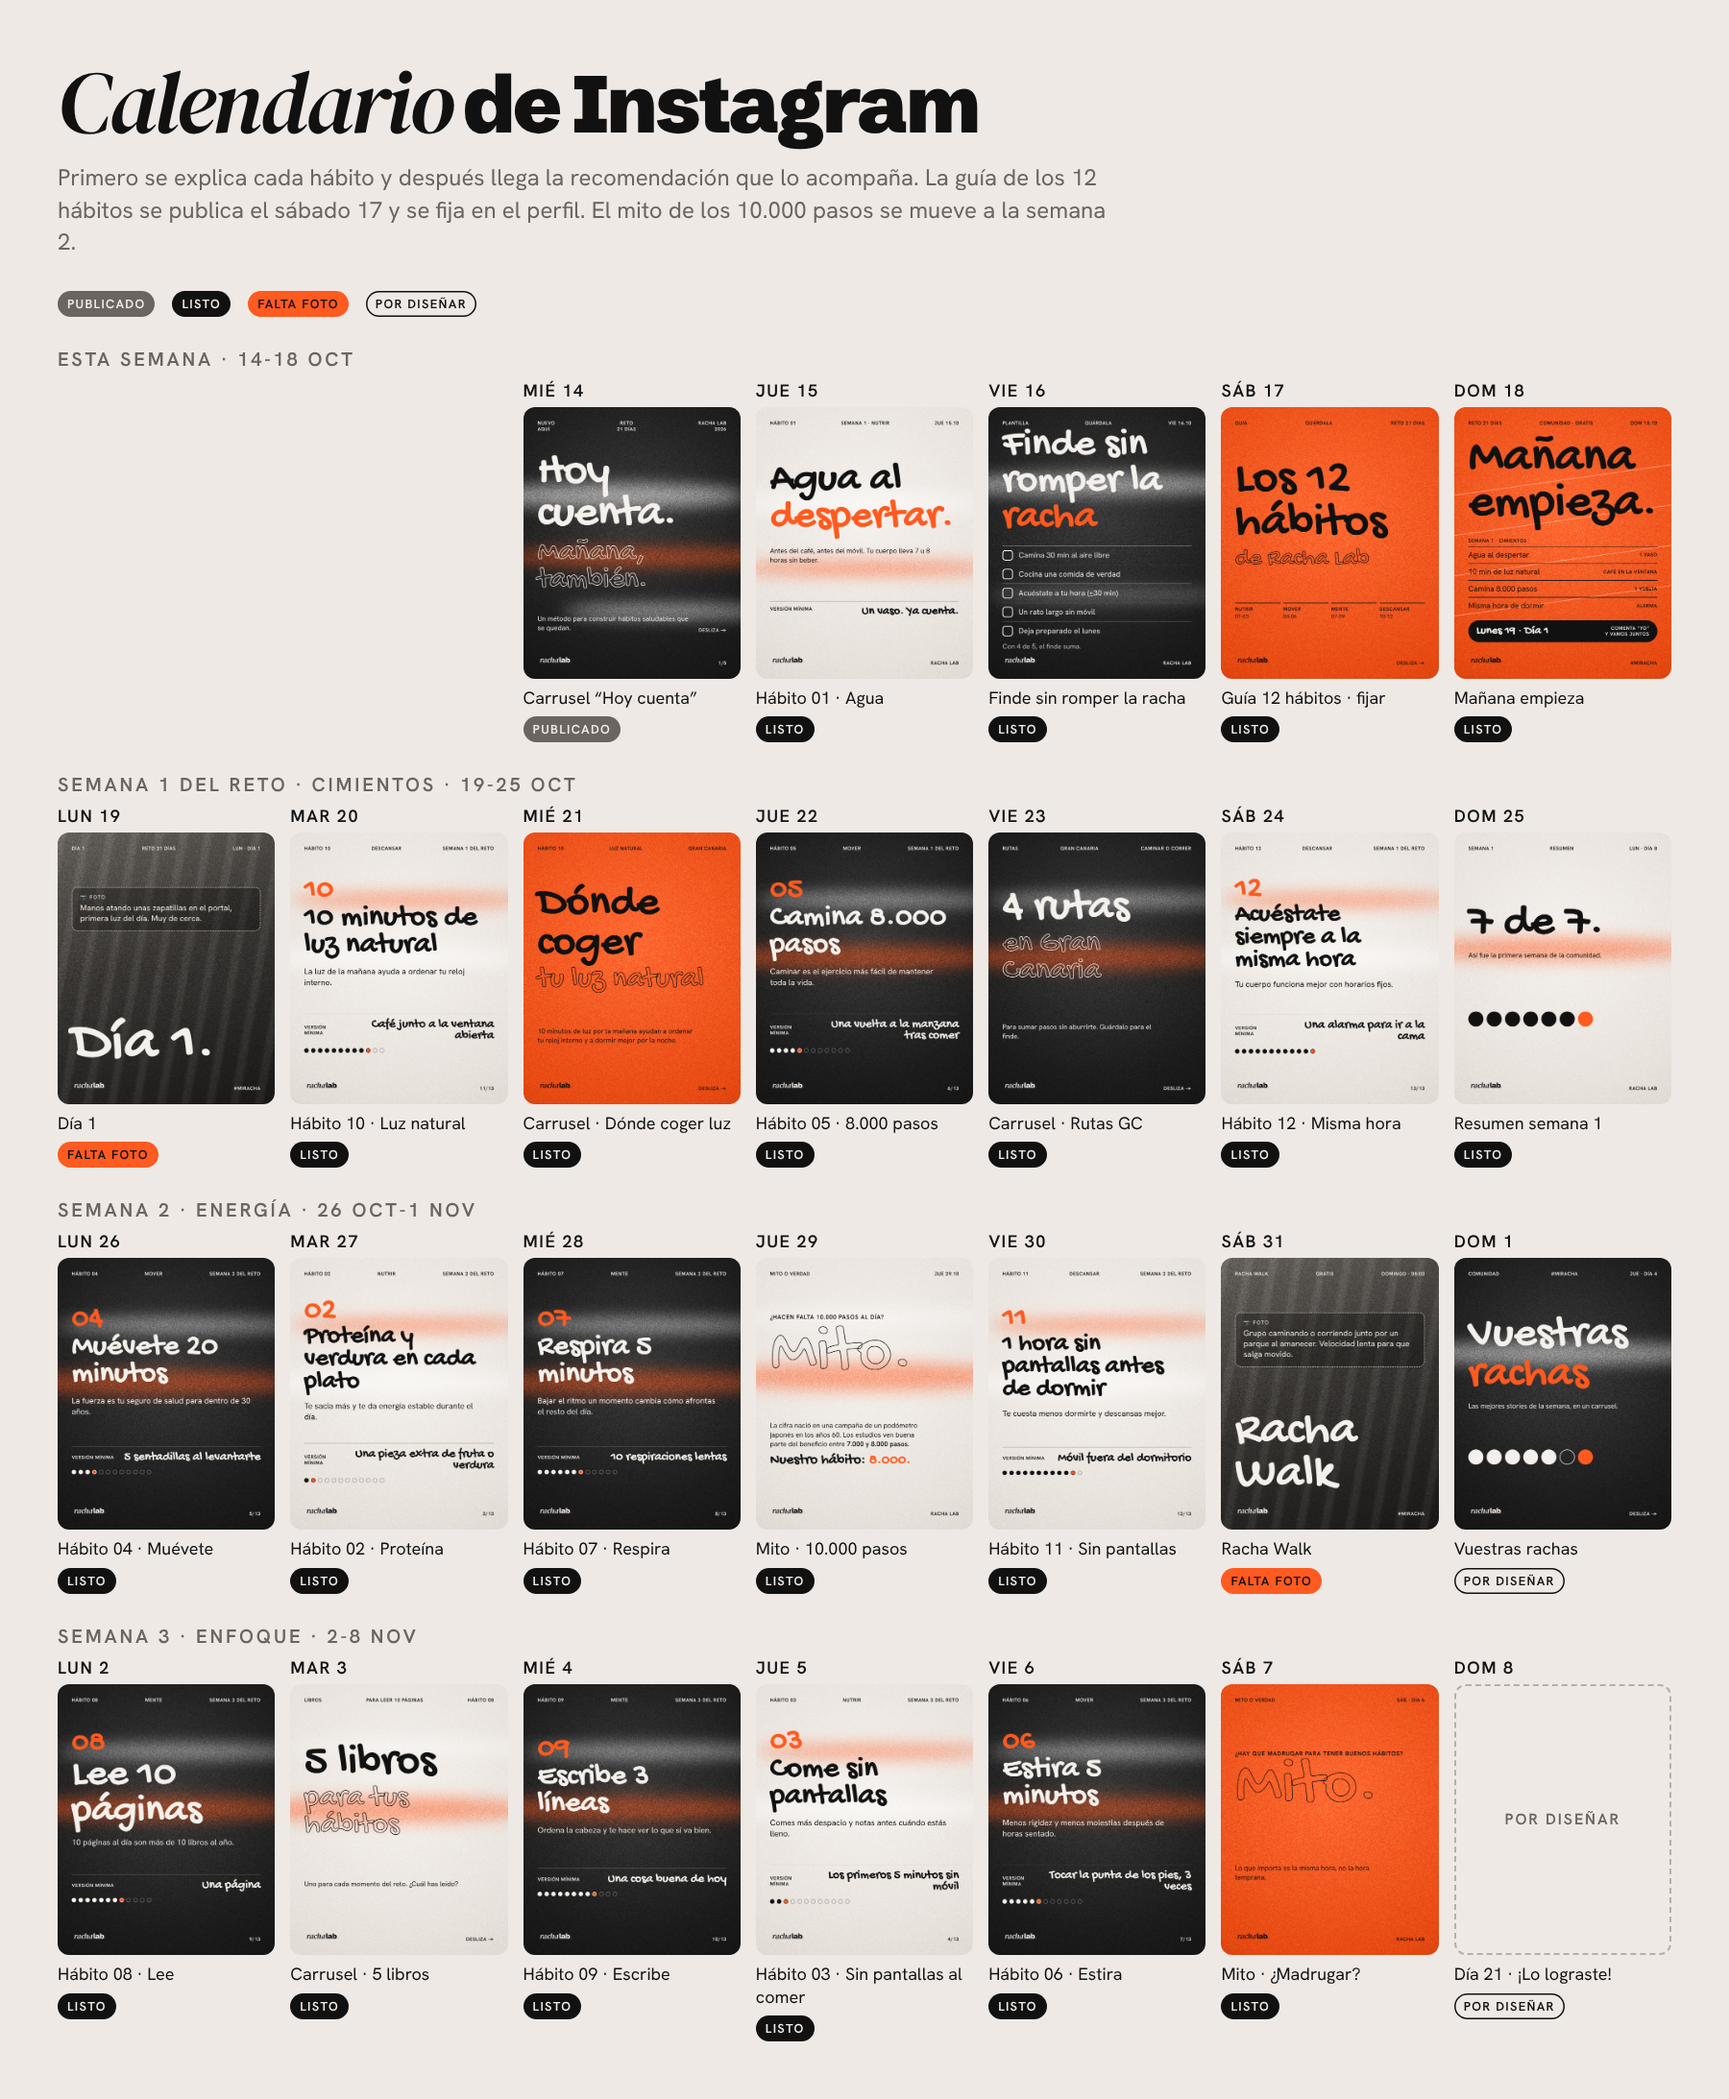
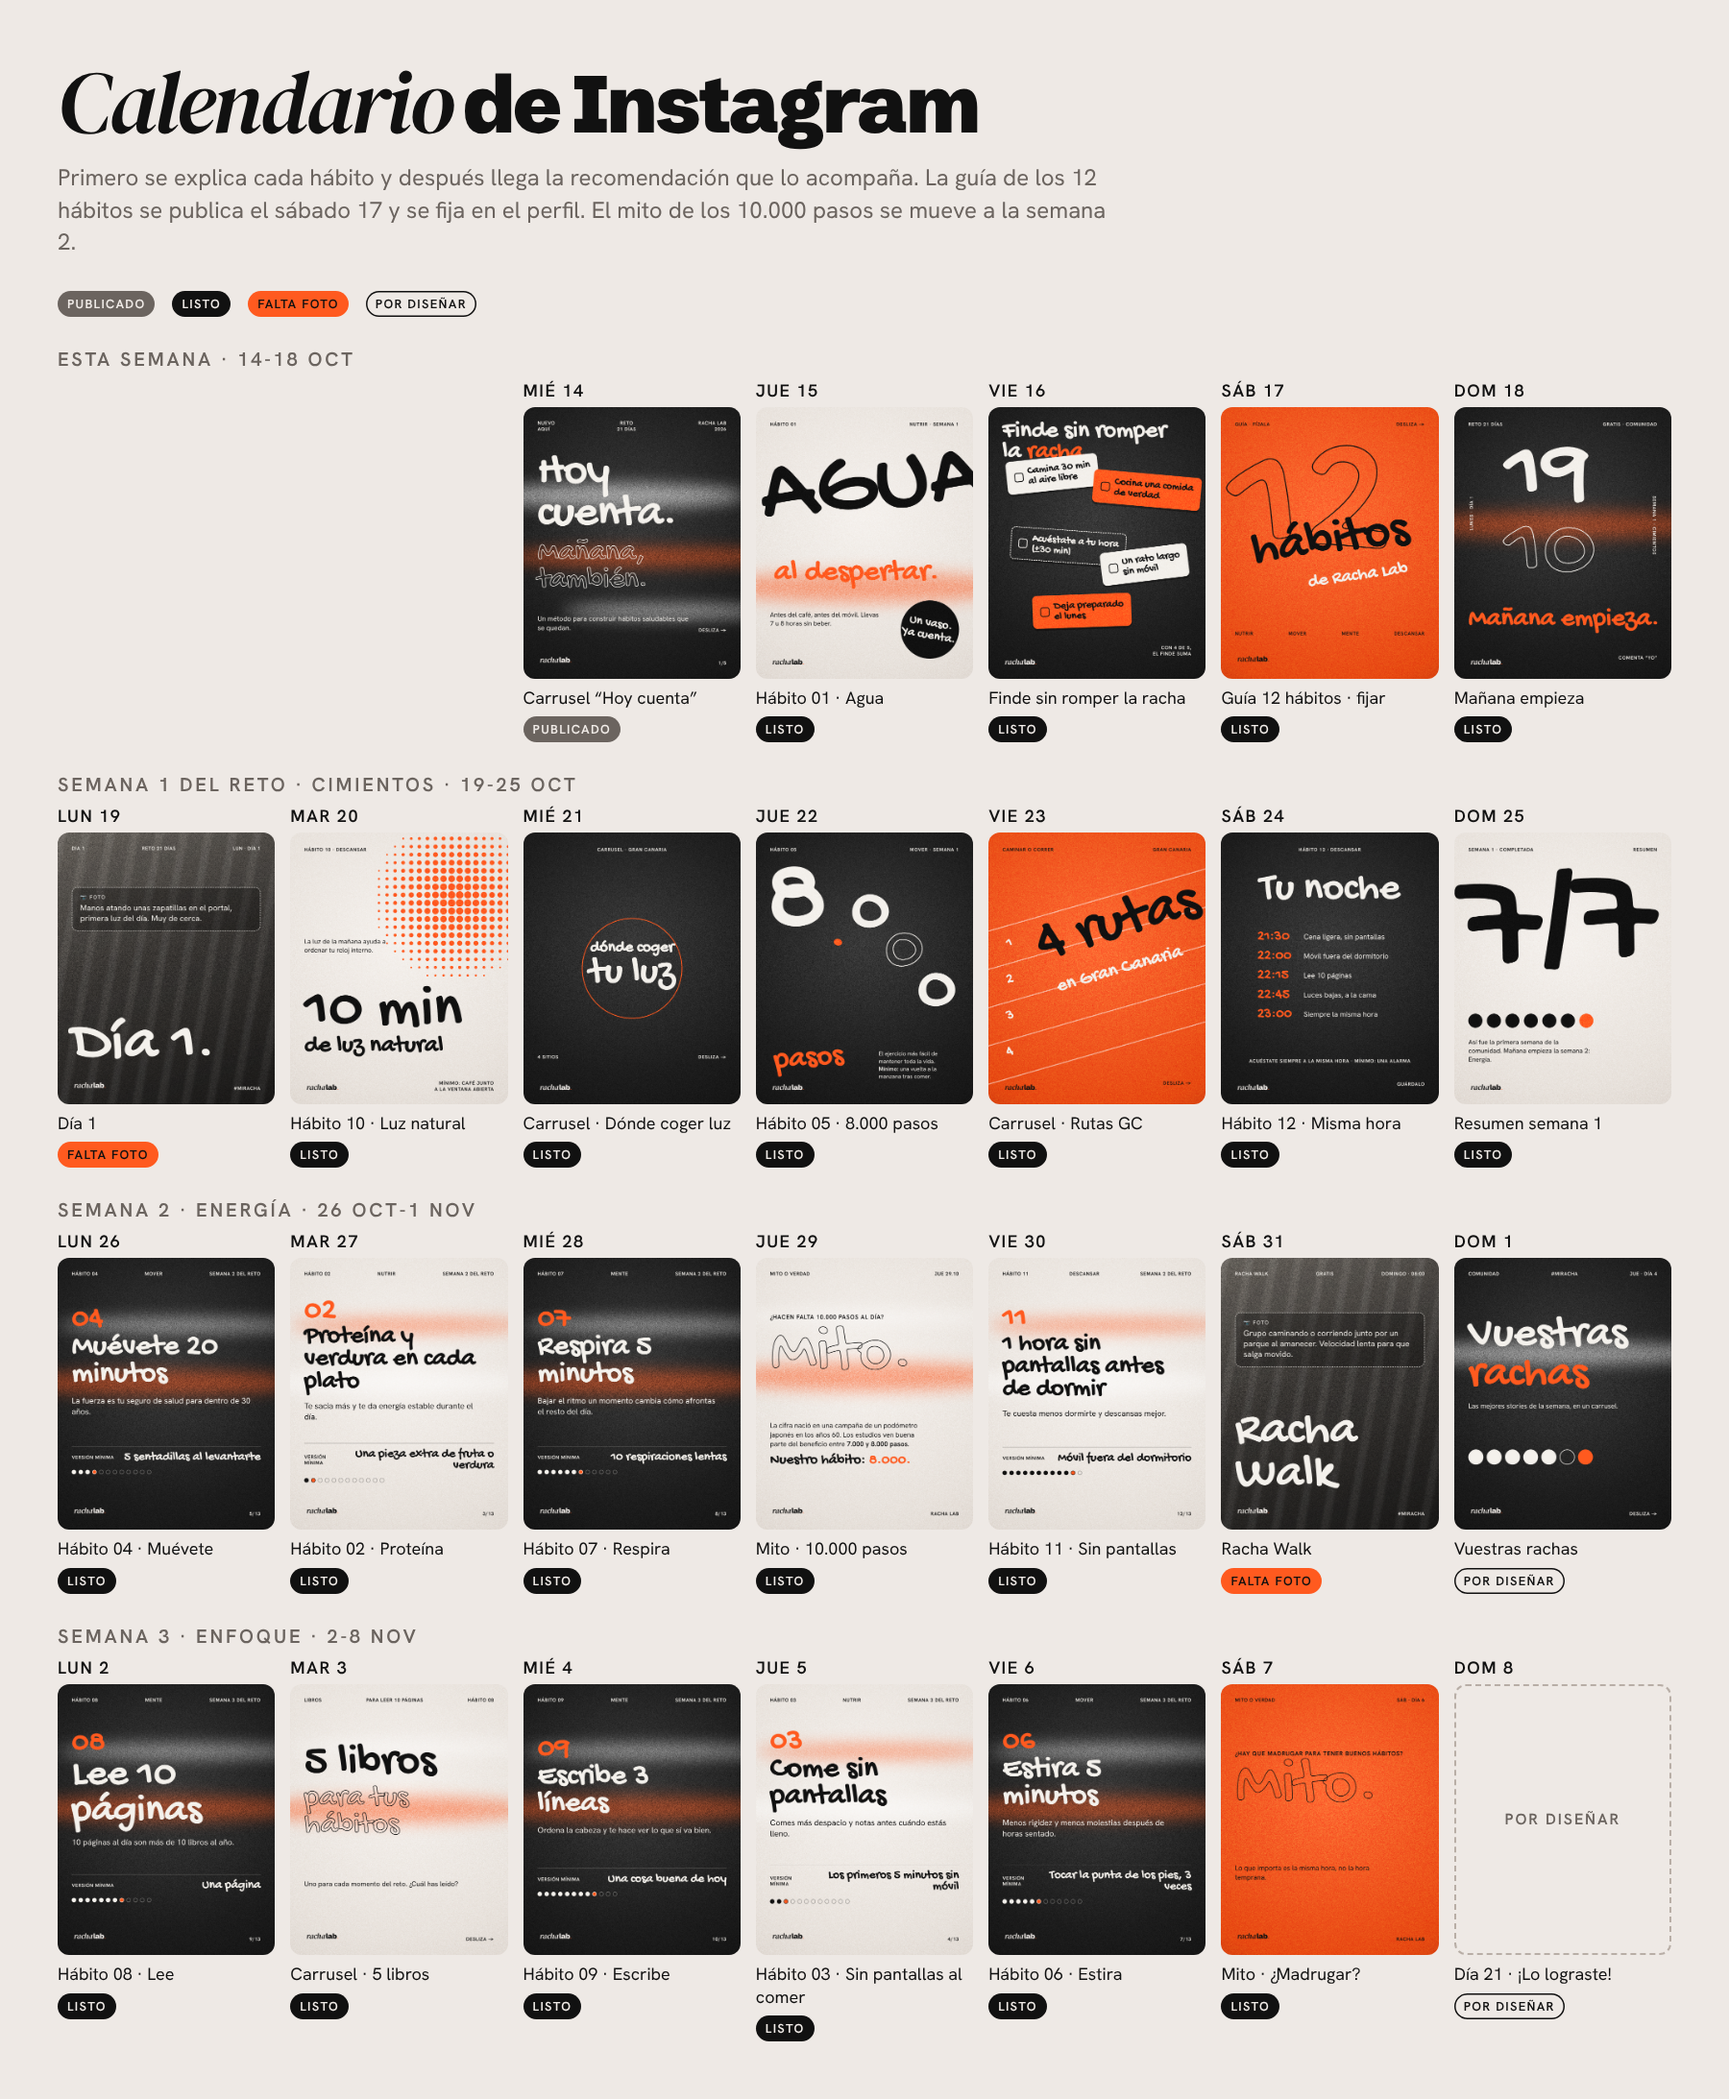
Redesign feed posts with distinct layouts per post and update grid preview and calendar
Claude-Session: https://claude.ai/code/session_01CVQ5H1Ti7YZqaj675BUrDW

Changed region(s): [[0.1556, 0.3733, 0.9644, 0.5288], [0.4356, 0.1866, 0.8089, 0.3111], [0.84, 0.1866, 0.9644, 0.3422]]

diff --git a/racha/redes/textos.md b/racha/redes/textos.md
@@ -120,3 +120,23 @@ Cada uno con su versión mínima para los días malos. El lunes empezamos el ret
 Guárdalo y vuelve aquí cuando dudes.
 
 #MiRacha #Reto21Racha #habitossaludables #nuevoshabitos #constancia #rutinasaludable
+
+---
+
+# Posts del feed v2 (`posts-feed/`)
+Cada post del feed tiene su propia composición dentro del mismo estilo. Los carruseles mantienen una plantilla común en su interior, pero su portada es única. Sustituyen a las versiones anteriores de esos días:
+
+| Día | Archivo | Composición |
+|---|---|---|
+| Jue 15 | `jue15-agua.png` | Palabra gigante que sale del borde + sello redondo |
+| Vie 16 | `vie16-finde.png` | Pegatinas giradas con casillas |
+| Sáb 17 | `sab17-guia.png` | Portada de la guía: “12” en contorno gigante + “hábitos” encima |
+| Dom 18 | `dom18-empieza.png` | Fecha gigante 19/10 (relleno + contorno) con textos en vertical |
+| Mar 20 | `mar20-luz.png` | Sol en semitono naranja |
+| Mié 21 | `mie21-luz-carrusel.png` | Portada mínima centrada con círculo |
+| Jue 22 | `jue22-pasos.png` | Cifras sueltas “8.000” repartidas por la imagen |
+| Vie 23 | `vie23-rutas.png` | Pista de atletismo naranja en diagonal |
+| Sáb 24 | `sab24-noche.png` | Agenda centrada “Tu noche” |
+| Dom 25 | `dom25-resumen.png` | “7/7” gigante + puntos de la racha |
+
+Vista del perfil con dos semanas: `grid-dos-semanas.png`. Calendario actualizado: `calendario.png`.
